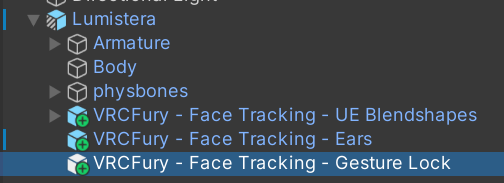
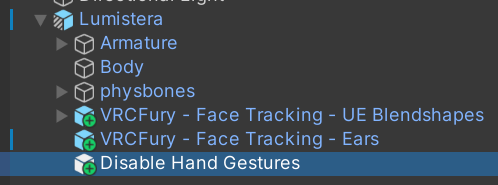
Refresh of Instruction (2025)

Changed region(s): [[0.0, 0.1639, 1.0, 0.9836], [0.0, 0.0, 0.4518, 0.1639]]

diff --git a/src/pages/index.js b/src/pages/index.js
@@ -19,7 +19,7 @@ function HomepageHeader() {
         <div className={styles.buttons}>
           <Link
             className="button button--secondary button--lg"
-            to="/docs/Intro">
+            to="/docs/intro">
             Get Started! \o/
           </Link>
         </div>

diff --git a/docs/Face Tracking/Beginner/Ears, Tails, Gestures.md b/docs/Face Tracking/Beginner/Ears, Tails, Gestures.md
@@ -56,7 +56,33 @@ Once all the animations are done, you can remove the FX layer from the Animator,
 
 ## Gesture Lock
 
-### This may be deprecated in the future. Use this for avatars released/updated before October 10, 2024[^1].
+<details>
+  <summary><strong>VRCFury Setup</strong></summary>
+  
+### 1. Dependencies
+
+You will need to have a couple of packages in your project in order for this to function properly. Grab the latest versions of:
+- [**VRCFury**](vcc://vpm/addRepo?url=https%3A%2F%2Fvcc.vrcfury.com)
+- [**VRCFT - Jerry's Templates**](https://adjerry91.github.io/VRCFaceTracking-Templates/)
+
+Import these into your project and ensure your avatar is set up with FT before moving on.
+
+### 2. Prefab Edits
+
+In the **Face Tracking - UE Blendshapes** prefab in your heirarchy, you should find a few sections of components. Double-click on the **Menu** field and remove the `Disable Hand Gestures` toggle from the menu.
+
+![Image](./img3/MENUGIF.gif)
+
+After this is done, navigate to `Packages/adjerry91.vrcft.templates/Prefabs/Sub` and add the included prefab to your avatar's heirarchy.
+
+![Image](./img3/TUT6.png) ![Image](./img3/TUT7.png)
+
+</details>
+
+<details>
+  <summary><strong>Legacy VRCFury Setup</strong></summary>
+  
+### This is now deprecated! Use this for avatars released/updated before October 10, 2024.
 
 Gesture Lock allows you to lock certain gestures or expressions, preventing them from being overridden by other animations or face tracking inputs. This is useful for maintaining specific poses or actions during your VRChat experience.
 
@@ -78,16 +104,16 @@ In the **Face Tracking - UE Blendshapes** prefab in your heirarchy, you should f
 After this is done, navigate to **Han's Creations -> FT Gesture Locker** and add the included prefab to your avatar's heirarchy.
 
 ![Image](./img3/TUT6.png) ![Image](./img3/TUT7.png)
+</details>
 
-### You're done!
+### You can now upload!
 
-[^1]: This is a projected date. Adjerry is planning on adding this as an integrated feature. For avatars that do not have the VRCFury scripts packed, it may prove difficult to update, and may inhibit the update. Will update as news comes out.
+If the above does not work (or you'd rather do the work yourself), manual instructions are below.
 
-<!-- Uncomment below if the VRCFury setup proves to be buggy. -->
-<!-- </details>
+<!-- Comment below if the Manual setup proves to be buggy. -->
 
 <details>
-<summary>Manual Setup</summary>
+<summary>**Manual Setup**</summary>
 
 This setup will be a bit more, well, manual. Intermediate Unity skills will be needed to conduct this, but is much more **customizable**. If functionality of other assets are not needed, head to the **VRCFury Setup** section!
 
@@ -105,25 +131,24 @@ Import these into your project and ensure your avatar is set up with FT before m
 
 If your avatar is set up completely, it should come with an FX layer. This can be found in the **Avatar Descriptor**. Double-click this!
 
-[image]
+![Image](./img4/TUT1.png)
 
 Head to the **Parameters** section and add a new Bool called `FacialExpressionsDisabled`.
 
-[image]
+![Image](./img4/TUT2.png) ![Image](./img4/TUT3.png)
 
-In your Animator section, your avatar should have two[^2] layers that control your avatar's expressions with gestures. Look for layers labeled **Left Hand** and **Right Hand**.
+In your Animator section, your avatar should have two[^1] layers that control your avatar's expressions with gestures. Look for layers labeled **Left Hand** and **Right Hand**.
 
-[image]
+![Image](./img4/TUT4.png)
 
 Each arrow leading to all of the states are what we're going to be focusing on. Select one, and add a new condition by hitting the **+** icon. This condition will only activate when `FacialExpressionsDisabled` is set to **False**.
 
-[image]
+![Image](./img4/TUT5.png) ![Image](./img4/TUT6.png)
 
-Repeat this step for every transition from an idle state to a gesture state. That can be tedious.
+Repeat this step for every transition from an idle/Any state to a gesture state. That can be tedious.
 
 ### You are done!
 
+[^1]: This can vary. Hobbert's avatars are usually split into **Eyes** and **Mouth** layers. It's also possible for avatars to be set up with gestures all condensed into one giant layer. Regardless of the case, repeat the steps for all expression layers found.
+
 </details>
-
-
-[^2]: This can vary. Hobbert's avatars are usually split into **Eyes** and **Mouth** layers. It's also possible for avatars to be set up with gestures all condensed into one giant layer.  -->

diff --git a/docs/Avatars/Optimization/Meshes.md b/docs/Avatars/Optimization/Meshes.md
@@ -12,9 +12,9 @@ Like textures, **meshes** also play a significant part in determining VRAM usage
 
 Optimizing polygon count, even for worlds, is a crucial step to making your avatar run well across multiple platforms. It may not be approachable for most, but I'll simplify some common approaches most 3D artists use when optimizing their models.
 
-### Polytool
+### [Polytool](https://markcreator.gumroad.com/l/Polytool)
 
-Polytool is a **paid** Unity addon by [**Markoragon**](https://markcreator.gumroad.com/l/Polytool) to simplify the process of optimizing a model. It can easily cover complex optimization steps like **decimation**, **atlassing**, and **bone count**.
+Polytool is a **paid** Unity addon by **Markoragon** to simplify the process of optimizing a model. It can easily cover complex optimization steps like **decimation**, **atlassing**, and **bone count**.
 
 ### Tuxedo
 

diff --git a/docs/Face Tracking/Advanced/Mesh Data Transfer.md b/docs/Face Tracking/Advanced/Mesh Data Transfer.md
@@ -14,14 +14,14 @@ It is, within reason! With two simillar models, you can transfer blendshapes fro
 
 <details>
    <summary>Prerequisites</summary>
-   - Experience in Blender 4.0
+   - Experience in Blender 4.3
    - Your **Source** and **Target** models
       - Source: Your model with FT blendshapes.
       - Target: Your new model that needs FT blendshapes transferred.
    - [Mesh Data Transfer](https://mmemoli.gumroad.com/l/tOKEh) addon
    </details>
 
-**I find that Blender 4.0 is more stable than the latest versions of the software. Unsure why, but it's something to keep an eye out for.**
+**Mesh Data Transfer now works with the latest version of Blender (4.3.2)! If problems persist, ensure you have the latest version of MDT. (2.0.6)**
 
 ## Project Setup
 1. Open Blender and set up a general project, deleting the objects it normally dumps. 

diff --git a/docs/Face Tracking/Beginner/PatchGuide.md b/docs/Face Tracking/Beginner/PatchGuide.md
@@ -28,7 +28,7 @@ sidebar_position: 2
 
 ### 3. Add the FX
 - With my DLC, they work best with [**Adjerry's Face Tracking Prefabs**](https://github.com/Adjerry91/VRCFaceTracking-Templates), and can be imported easily. This also has a [**VCC listing**](https://adjerry91.github.io/VRCFaceTracking-Templates/) if you prefer!
-- Once it's imported, you can navigate here and import the **VRCFury - Unified Expressions** prefab.
+- Once it's imported, you can navigate here and import the **VRCFury - Unified Expressions** prefab. **Do NOT import TongueSteps! This will not work as intended, even if you use a Vive Facial Tracker.**
 
     ![Image](./img/packagedir.png)
 
